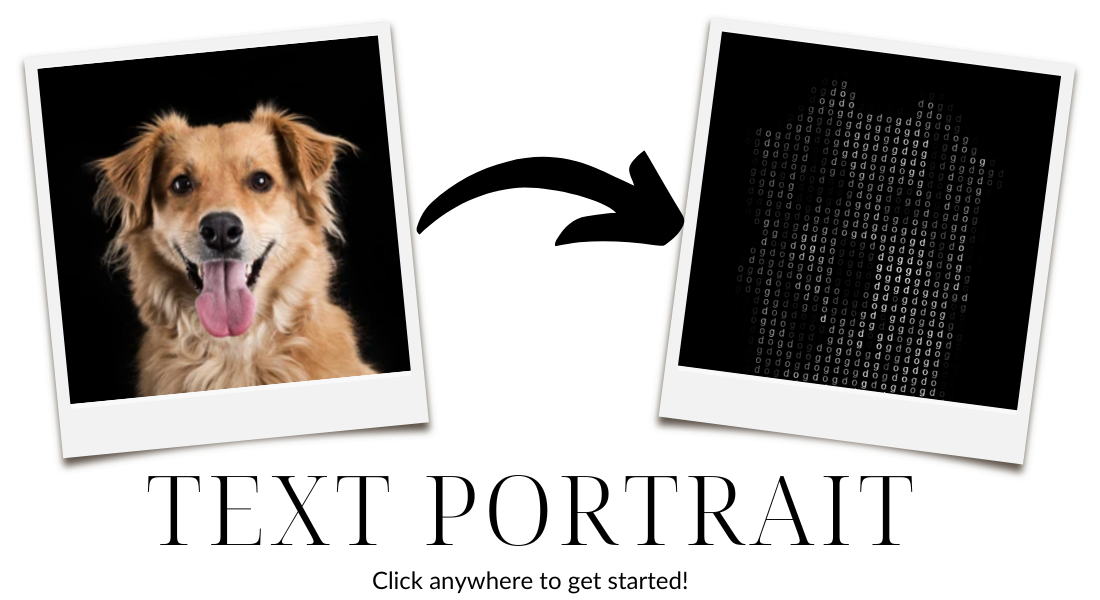
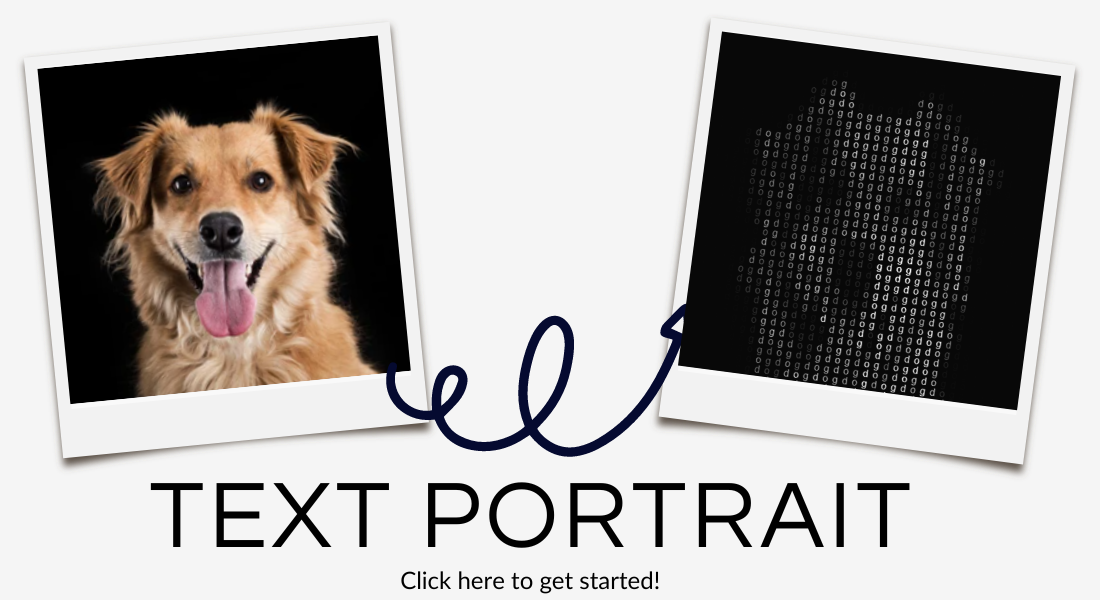
added a lot of functionality

Changed region(s): [[0.1236, 0.51, 0.8345, 0.99], [0.3709, 0.24, 0.6182, 0.42], [0.5564, 0.51, 0.6491, 0.72]]

diff --git a/Week 4/4.2/project1_implementation/style.css b/Week 4/4.2/project1_implementation/style.css
@@ -1,10 +1,16 @@
+@import url('https://fonts.googleapis.com/css2?family=Questrial&display=swap');
+
 * {
     margin: 0;
     padding: 0;
 }
 
 body {
-    background-color: black;
+    background-color: #080808;
+}
+
+html {
+    scroll-behavior: smooth;
 }
 
 .input {
@@ -13,7 +19,7 @@ body {
     justify-content: center;
     flex-wrap: wrap;
     /* background-color: black; */
-    color: white;
+    color: whitesmoke;
 }
 
 .input div {
@@ -40,12 +46,12 @@ body {
 .io-box {
     height: 600px;
     width: 1100px;
-    background-color: black;
-    border: white 10px solid;
+    background-color: #080808;
+    border: whitesmoke 10px solid;
     /* padding: 0; */
     left: 0;
     margin: auto;
-    margin-top: 50px;
+    margin-top: 20px;
     border-radius: 40px;
     transition: width 0.5s, height 0.5s;
 }
@@ -68,7 +74,7 @@ body {
 }
 
 #takepic_bt {
-    background-color: white;
+    background-color: whitesmoke;
     border-radius: 200px;
     height: 200px;
     width: 200px;
@@ -115,7 +121,7 @@ body {
 
 
 .input2 form {
-    background-color: white;
+    background-color: whitesmoke;
     padding: 40px;
     height: 350px;
     width: 600px;
@@ -128,7 +134,7 @@ body {
     border-radius: 10px;
     border: 0;
     background-color: black;
-    color: white;
+    color: whitesmoke;
 }
 
 .output1 {
@@ -162,7 +168,7 @@ button:hover {
 }
 
 .output1 div {
-    background-color: white;
+    background-color: whitesmoke;
     padding: 40px;
     height: 350px;
     width: 600px;
@@ -180,7 +186,7 @@ button:hover {
     height: 150px;
     /* margin: 0; */
     margin: 15px;
-    border: white 1px dashed;
+    border: whitesmoke 1px dashed;
 }
 
 .output2 {
@@ -207,7 +213,7 @@ canvas {
     border-radius: 8px;
     border: 0;
     background-color: black;
-    color: white;
+    color: whitesmoke;
 }
 
 #canvas2 {
@@ -233,7 +239,7 @@ canvas {
 }
 
 #back_bt3 {
-    border-radius: 20px;
+    border-radius: 50px;
     margin-top: 20px;
 }
 
@@ -243,7 +249,7 @@ canvas {
     border-radius: 8px;
     border: 0;
     background-color: black;
-    color: white;
+    color: whitesmoke;
 }
 
 
@@ -267,7 +273,7 @@ canvas {
 
 #form_fin {
     /* flex-direction: column; */
-    background-color: white;
+    background-color: whitesmoke;
     padding: 40px;
     height: 350px;
     width: 600px;
@@ -285,5 +291,136 @@ canvas {
     border-radius: 10px;
     border: 0;
     background-color: black;
+    color: whitesmoke;
+}
+
+.home {
+    background-image: url("./assets/image.jpg");
+    height: 800px;
+    width: auto;
+    display: flex;
+    flex-direction: column;
+}
+
+.home h1 {
+
+    font-family: 'Questrial', sans-serif;
     color: white;
+    font-size: 100px;
+}
+
+.home {
+    align-items: center;
+    justify-content: center;
+}
+
+.home div {
+    margin-bottom: 150px;
+}
+
+.home img {
+    height: 120px;
+    width: 120px;
+}
+
+footer {
+    text-align: center;
+    color: whitesmoke;
+    padding: 20px;
+    padding-top: 0;
+}
+
+footer h3 {
+    margin-bottom: 0;
+    padding-left: 70px;
+    font-family: 'Questrial',
+        sans-serif;
+    letter-spacing: 4px;
+}
+
+#heading2 {
+    font-family: 'Questrial', sans-serif;
+    color: white;
+    font-size: 40px;
+    text-align: center;
+    margin-top: 80px;
+    letter-spacing: 5px;
+}
+
+#heading2 {
+    font-family: 'Questrial', sans-serif;
+    color: white;
+    font-size: 40px;
+    text-align: center;
+    margin-top: 80px;
+    letter-spacing: 3px;
+}
+
+.pictures h1 {
+    margin-top: 70px;
+    font-family: 'Questrial', sans-serif;
+    color: white;
+    font-size: 40px;
+    text-align: center;
+}
+
+.pictures div {
+    width: 800px;
+    height: 800px;
+    margin: 50px;
+}
+
+.pictures {
+    display: flex;
+    flex-direction: column;
+    justify-content: center;
+    align-items: center;
+
+}
+
+/* #p_1,
+#p_2,
+#p_3,
+#p_4 {
+    display: none;
+} */
+
+#p1 {
+    background: url("./assets/example_imgs/pic1.jpg") no-repeat;
+    background-size: cover;
+}
+
+#p1:hover {
+    background: url("./assets/example_imgs/pic_1.jpg") no-repeat;
+    background-size: cover;
+}
+
+#p2 {
+    background: url("./assets/example_imgs/pic2.jpg") no-repeat;
+    background-size: cover;
+}
+
+#p2:hover {
+    background: url("./assets/example_imgs/pic_2.jpg") no-repeat;
+    background-size: cover;
+}
+
+#p3 {
+    background: url("./assets/example_imgs/pic3.jpg") no-repeat;
+    background-size: cover;
+}
+
+#p3:hover {
+    background: url("./assets/example_imgs/pic_3.jpg") no-repeat;
+    background-size: cover;
+}
+
+#p4 {
+    background: url("./assets/example_imgs/pic4.jpg") no-repeat;
+    background-size: cover;
+}
+
+#p4:hover {
+    background: url("./assets/example_imgs/pic_4.jpg") no-repeat;
+    background-size: cover;
 }

diff --git a/Week 4/4.2/project1_implementation/app.js b/Week 4/4.2/project1_implementation/app.js
@@ -1,10 +1,12 @@
+// const { pbkdf2 } = require("crypto");
+
 window.addEventListener("load", () => {
     console.log("page loaded")
 })
 
 let searchName;
 const txt = document.querySelector("#search_box");
-const pic = document.querySelector(".pictures");
+// const pic = document.querySelector(".pictures");
 const unsplash = document.querySelector("#unsplash");
 const init_input = document.querySelector(".input");
 const input2 = document.querySelector(".input2");
@@ -24,9 +26,12 @@ const input4 = document.querySelector(".input4");
 const form_fin = document.querySelector("#form_fin");
 const file_upload = document.querySelector("#file_upload");
 const save_bt = document.querySelector("#save_canvas");
-
+const back_bt4 = document.querySelector("#back_bt4")
+// const arrow_bt = document.querySelector("#")
 
 let chr;
+// let flag = false;
+// let f2 = false;
 form.addEventListener("submit", (e) => {
     e.preventDefault(); //to stop form submission
     searchName = txt.value;
@@ -35,14 +40,22 @@ form.addEventListener("submit", (e) => {
     fetch(`https://api.unsplash.com/search/photos?query=${searchName}&client_id=mZPw-CKK4QAA8-T1FUwHhgWwDuHiaeOBD7d8ToskRXg`)
         .then(res => res.json())
         .then(data => {
+            // f2 = false;
+
             let desc;
-            console.log(desc);
+            // console.log(desc);
             // let imgLink = data.results[0].urls.small;
             // pic.innerHTML = (`<img src="${imgLink}" alt="${desc}">`) + pic.innerHTML;
-            input2.style.display = "none";
+
 
             let imgLink;
             console.log(data.results[0].urls.small);
+            // f2 = true;
+
+
+            input2.style.display = "none";
+
+            console.log("yes");
             for (let i = 0; i < 6; i++) {
                 imgLink = data.results[i].urls.small;
                 desc = data.results[i].alt_description;
@@ -58,12 +71,15 @@ form.addEventListener("submit", (e) => {
         .catch(e => {
             console.log("The error is", e);
             alert("Sorry no results found...Please try again!");
+            // f2 = false;
         })
 })
 
 unsplash.addEventListener("click", () => {
     init_input.style.display = "none";
     input2.style.display = "flex";
+
+
 })
 
 cover_p.addEventListener("click", () => {
@@ -102,7 +118,7 @@ let flag2 = false;
 let vf = true;
 let video;
 let myCanvas;
-let myCanvas2;
+// let myCanvas2;
 function setup() {
     myCanvas = createCanvas(450, 450);
     myCanvas.parent(canvas);
@@ -258,3 +274,14 @@ save_bt.addEventListener("click", () => {
     saveCanvas(`${count}`, 'jpg');
     count++;
 })
+
+back_bt4.addEventListener("click", () => {
+    input4.style.display = "none";
+    init_input.style.display = "flex";
+})
+//part 2
+
+// p1.addEventListener("mouseover", () => {
+//     p1.style.display = "none";
+//     p_1.style.display = "block";
+// })

diff --git a/Week 4/4.2/project1_implementation/index.html b/Week 4/4.2/project1_implementation/index.html
@@ -10,7 +10,18 @@
 </head>
 
 <body>
-    <section class="io-box">
+    <header class="home">
+        <div>
+            <h1>Convert your images to text.</h1>
+
+        </div>
+
+        <a href="#heading2"><img src="./assets/down_arrow.png" alt="down arrow" id="arrow"></a>
+    </header>
+    <!-- <section></section> -->
+    <h1 id="heading2">Where the Magic Happens!</h1>
+    <section class="io-box" id="section2">
+
         <div class="cover_p">
             <img src="./assets/cover_photo.png" alt="Getting Started Image">
         </div>
@@ -55,6 +66,7 @@
                     <input id="file_upload" type="file" name="file-upload" accept="Image/*" placeholder="Select Image">
                 </div>
                 <button id="upload" type="submit">Upload</button>
+                <button id="back_bt4">BACK</button>
             </form>
 
 
@@ -67,7 +79,16 @@
     <!-- file upload video ref: https://www.youtube.com/watch?v=gipOslesVtw -->
     <!-- make sure to add pixel clarity -->
     <!-- take fonts from figma -->
-    <section class="pictures"> </section>
+    <section class="pictures">
+        <h1>Explore </h1>
+        <div id="p1"></div>
+        <div id="p2"></div>
+        <div id="p3"></div>
+        <div id="p4"></div>
+    </section>
+    <footer>
+        <h3> © Copyright Swostik Pati</h3>
+    </footer>
     <script src="https://cdnjs.cloudflare.com/ajax/libs/p5.js/1.4.1/p5.js"></script>
     <script src="app.js"></script>
 </body>
